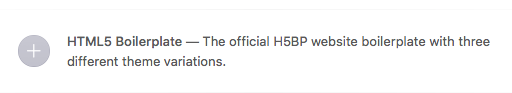
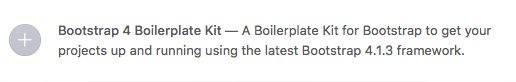
Completed documentation for the README.

Changed region(s): [[0.0, 0.2927, 0.9688, 0.7317], [0.3438, 0.5366, 0.375, 0.561]]

diff --git a/README.md b/README.md
@@ -1,19 +1,21 @@
-# HTML5 Boilerplate Template for Espresso
+# Bootstrap 4 Boilerplate Kit for Espresso
 
-The un-official H5BP website boilerplate template for Espresso (espressoapp.com)
-, the macOS Editor App.
-
-**_[Espresso][espressoapp] are the original authors of this template, I have
-simply taken what they have provided in the application already and upgraded it
-to use all of the latest projects. I found the bundled version was too outdated
-and needed upgrading/maintaining._**
+A Boilerplate Template Kit for [Espresso][espressoapp] that speeds up your
+project development by providing templates, code, CSS and scripts using the
+[Bootstrap 4.1.3][bootstrap] framework.
 
 ###### Table of Contents
 
 - [What is Included](#what-is-included)
-    - [Vendor Scripts](#vendor-scripts)
-    - [Theme Templates](#theme-templates)
-    - [Theme Options](#theme-options)
+  - [Bootstrap 4.1.3](#bootstrap-413)
+  - [Vendor Scripts](#vendor-scripts)
+  - [Theme Templates](#theme-templates)
+    - [Framework](#framework)
+    - [Custom Components](#custom-components)
+    - [Navbars](#navbars)
+    - [Experiments](#experiments)
+  - [Theme Options](#theme-options)
+  - [Extras](#extras)
 - [Getting Started](#getting-started)
   - [Prerequisites](#prerequisites)
   - [Installing](#installing)
@@ -29,31 +31,72 @@ and needed upgrading/maintaining._**
 
 ## What is Included
 
-The following come included in this template for `Espresso`.
+This Boilerplate Kit's primary objective is to accelerate your development
+process by providing you with all the files and code needed for working with the
+most current release of [Bootstrap][bootstrap] - currently version 4.1.3. Not
+only does this Kit include all the Bootstrap CSS and JS, `jQuery`, `Popper.js`
+and `Holder.js` scripts, but it also includes 20 fully-functional example
+templates that you can fire up and begin using as a base for your project.
+
+Here is what is included in this Boilerplate Kit for `Espresso`.
+
+### Bootstrap 4.1.3
+
+You get the latest, minified CSS and JavaScript files for Bootstrap 4.1.3.
+These are:
+
+- bootstrap.min.css
+- bootstrap.min.css.map
+- bootstrap.min.js
 
 ### Vendor Scripts
 
-The following vendor scripts are included in the template and have all been
-upgraded from their original versions.
+The following vendor scripts are included in the template.
 
-1. [Bootstrap 3.3.7][bootstrap] - from version 3.1.1
-2. [jQuery 3.3.1][jquery] - from version 1.11.0
-3. [Modernizr 3.6.0][modernizr] - from version 2.6.2
-4. [Respond.js 1.4.2][respond] - from version 1.1.0
-5. [html5shiv 3.7.3][html5shiv] - from version 3.6
+1. [Bootstrap 4.1.3][bootstrap]
+1. [jQuery Slim 3.3.1][jquery]
+1. [Popper 3.6.0][popper]
+1. [Holder.js 2.9.4+cabil][holder]
 
 ### Theme Templates
 
-H5BP website boilerplate template for Espresso has also been upgrade from
-version 4.6.0 to version 6.1.0. The template includes the following three
-variations:
+The Bootstrap 4 Boilerplate Kit template for Espresso includes the following 20
+template variations ranging from using parts of the framework to custom
+components and layouts as well as Bootstrap experiments.
 
-1. Blank HTML5 starter template with only jQuery included.
-2. Responsive starter template with jQuery and Respond.js.
-3. Bootstrap Jumbotron template with jQuery and Respond.js.
+Here is an overview (with screenshots) of each of the included templates in the
+Boilerplate Kit.
 
-You have the choice of either `Modernizr` or `html5shiv` as the HTML5 fallback
-with each of the three options above.
+#### Framework
+
+| Screenshot                                        | Template                                                                             | Screenshot                         | Template                                                                            |
+|:--------------------------------------------------|:-------------------------------------------------------------------------------------|:-----------------------------------|:------------------------------------------------------------------------------------|
+| ![Starter](docs/screenshots/starter-template.png) | **Starter:** Nothing but the basics: compiled CSS and JavaScript and navbar.         | ![Grid](docs/screenshots/grid.png) | **Grid:** Multiple examples of grid layouts with all four tiers, nesting, and more. |
+| ![Jumbotron](docs/screenshots/jumbotron.png)      | **Jumbotron:** Build around the jumbotron with a navbar and some basic grid columns. |                                    |                                                                                     |
+
+#### Custom Components
+
+| Screenshot                                                         | Template                                                                                         | Screenshot                                           | Template                                                                                     |
+|:-------------------------------------------------------------------|:-------------------------------------------------------------------------------------------------|:-----------------------------------------------------|:---------------------------------------------------------------------------------------------|
+| ![Album](docs/screenshots/album.png)                               | **Album:** Simple one-page template for photo galleries, portfolios, and more.                   | ![Pricing](docs/screenshots/pricing.png)             | **Pricing:** Example pricing page built with Cards and featuring a custom header and footer. |
+| ![Checkout](docs/screenshots/checkout.png)                         | **Checkout:** Custom checkout form showing our form components and their validation features.    | ![Product](docs/screenshots/product.png)             | **Product:** Lean product-focused marketing page with extensive grid and image work.         |
+| ![Cover](docs/screenshots/cover.png)                               | **Cover:** A one-page template for building simple and beautiful home pages.                     | ![Carousel](docs/screenshots/carousel.png)           | **Carousel:** Customize the navbar and carousel, then add some new components.               |
+| ![Blog](docs/screenshots/blog.png)                                 | **Blog:** Magazine like blog template with header, navigation, featured content.                 | ![Dashboard](docs/screenshots/dashboard.png)         | **Dashboard:** Basic admin dashboard shell with fixed sidebar and navbar.                    |
+| ![Sign-in](docs/screenshots/sign-in.png)                           | **Sign-in:** Custom form layout and design for a simple sign in form.                            | ![Sticky Footer](docs/screenshots/sticky-footer.png) | **Sticky Footer:** Attach a footer to the bottom of the viewport when page content is short. |
+| ![Sticky Footer Navbar](docs/screenshots/sticky-footer-navbar.png) | **Sticky Footer Navbar:** Attach a footer to the bottom of the viewport with a fixed top navbar. |                                                      |                                                                                              |
+
+#### Navbars
+
+| Screenshot                                         | Template                                                                                            | Screenshot                                           | Template                                                                                            |
+|:---------------------------------------------------|:----------------------------------------------------------------------------------------------------|:-----------------------------------------------------|:----------------------------------------------------------------------------------------------------|
+| ![Navbars](docs/screenshots/navbars.png)           | **Navbars:** Demonstration of all responsive and container options for the navbar.                  | ![Navbar Static](docs/screenshots/navbar-static.png) | **Navbar Static:** Single navbar example of a static top navbar along with some additional content. |
+| ![Navbar Fixed](docs/screenshots/navbar-fixed.png) | **Navbar Fixed:** Single navbar example with a fixed top navbar along with some additional content. | ![Navbar Bottom](docs/screenshots/navbar-bottom.png) | **Navbar Bottom:** Single navbar example with a bottom navbar along with some additional content.   |
+
+#### Experiments
+
+| Screenshot                                               | Template                                                                             | Screenshot                                   | Template                                                                  |
+|:---------------------------------------------------------|:-------------------------------------------------------------------------------------|:---------------------------------------------|:--------------------------------------------------------------------------|
+| ![Floating Labels](docs/screenshots/floating-labels.png) | **Floating Labels:** Beautifully simple forms with floating labels over your inputs. | ![Offcanvas](docs/screenshots/offcanvas.png) | **Offcanvas:** Turn your expandable navbar into a sliding offcanvas menu. |
 
 ### Theme Options
 
@@ -62,9 +105,38 @@ create a _New Project_ within `Espresso`.
 
 ![Theme Options](docs/images/theme-options.png)
 
+### Extras
+
+There is an optional Extras section which allows you to include extra
+configuration files that form part of most modern-day web projects.
+
+In the `Theme Options` you will find the following settings for you to choose
+from:
+
+![Theme Options](docs/images/extras.png)
+
+These extras are:
+
+1. **IE Classes:** this includes markup in your HTML document for IE9 that will
+   display a browser upgrade message. When selecting this option a new
+   `browser-upgrade.css` file is included in your `/css/` folder and is linked
+   in your HTML markup. If you don't select this option then no additional
+   markup or CSS is added to your HTML template.
+1. **Server Extras:** includes an `.htaccess`, `robots.txt` and `humans.txt`
+   file in the root of your project folder. You can edit these files and
+   customise them to your needs. This option is selected by default as these
+   files are recommended but if you don't select them then none of these files
+   are added to your project.
+1. **Google Analytics:** by including this, additional Google Analytics code is
+   included in your markup just before the closing `</body>` tag. You have the
+   option of inputting your Site ID at time of creating your template or, if you
+   only create the GA tag later on, you can add the Site ID to the markup later
+   on. If this option is unticked, no additional code is added to your markup.
+
 ## Getting Started
 
-These instructions will get the H5BP template installed on your macOS machine.
+These instructions will get the Bootstrap 4 Boilerplate Kit template installed
+in `Espresso` on your `macOS` machine.
 
 ### Prerequisites
 
@@ -72,26 +144,28 @@ You will need a copy of [Espresso][espressoapp] running on `macOS`.
 
 ### Installing
 
-There are two methods to installing this template and these are documented
-below.
+There are two methods to installing the Boilerplate Template Kit and these are
+documented below.
 
 #### In Espresso
 
-- Download the template by [clicking this link][code].
+- Download the Boilerplate Template Kit by [clicking this link][code].
 - Extract the zip folder.
 - Open up your `Espresso.app` application on your machine.
 - Click `File` -> `New Project`
-   (or <kbd>Shift</kbd>+<kbd>Command</kbd>+<kbd>N</kbd>)
+  (or <kbd>Shift</kbd>+<kbd>Cmd</kbd>+<kbd>N</kbd>)
 - Click `Show Templates Folder`
 
 ![show-templates-folder](docs/images/show-templates-folder.png)
 
-- Copy the extracted folder (called `H5BP.espressotemplate`) to the `Templates`
-  directory that has just opened up.
+- Copy the extracted folder (called `bootstrap4.espressotemplate`) to the
+  `Templates` directory that has just opened up (see below).
 
 ![templates-folder](docs/images/templates-folder.png)
 
-The new template should now be available for you to use in the `Espresso` app:
+The new Boilerplate Template Kit should now be available for you to use in
+the `Espresso` app when you create a _New Project_ (see below for what you
+should be seeing).
 
 ![new template](docs/images/new-template.png)
 
@@ -103,11 +177,12 @@ The new template should now be available for you to use in the `Espresso` app:
 
 ```terminal
 $ cd ~/Library/Application\ Support/Espresso/Templates/
-$ git clone https://github.com/justinhartman/H5BP.espressotemplate.git
+$ git clone https://github.com/justinhartman/bootstrap4.espressotemplate.git
 ```
 
 You can now open up `Espresso.app` and the template will be available to you
-when you click on `New Project`.
+when you click on `File` -> `New Project` or <kbd>Shift</kbd>+<kbd>Cmd</kbd>
++<kbd>N</kbd>.
 
 ![new template](docs/images/new-template.png)
 
@@ -149,13 +224,13 @@ This project is licensed under the `MIT` License. See the
 
 Special thanks go out to the following people and projects.
 
-- [Espresso][espressoapp] - for the included template that this has been
-  upgraded from.
-- [HTML5Boilerplate][h5bp] - for providing the boilerplates in this template.
+- [Bootstrap][bootstrap] - for the libraries and example code that is used in
+  this project. Without them, this project wouldn't even exist.
+- [Espresso][espressoapp] - for their H5BP template that this was adapted from.
+- [humans.txt][humans] - for the `humans.txt` boilerplate file.
+- [H5BP][h5bp] - for providing the `.htaccess` file in the extras component.
 - [@justinhartman/.github][.github] - for the Github project templates.
 
-[//]: # (Make sure to change the URL links for `[tags]`, `[releases]`,)
-[//]: # (`[contribs]` and `[author-1]` below to your specific project.)
 
 [deploy]: #deployment
 [CONTRIBUTING]: CONTRIBUTING.md
@@ -163,16 +238,17 @@ Special thanks go out to the following people and projects.
 [license]: LICENSE
 [changelog]: CHANGELOG.md
 [semver]: http://semver.org
-[tags]: https://github.com/justinhartman/H5BP.espressotemplate/tags
-[releases]: https://github.com/justinhartman/H5BP.espressotemplate/releases
-[contribs]: https://github.com/justinhartman/H5BP.espressotemplate/contributors
+[tags]: https://github.com/justinhartman/bootstrap4.espressotemplate/tags
+[releases]: https://github.com/justinhartman/bootstrap4.espressotemplate/releases
+[contribs]: https://github.com/justinhartman/bootstrap4.espressotemplate/contributors
 [author-1]: https://github.com/justinhartman
 [.github]: https://github.com/justinhartman/.github
+[bootstrap]: https://getbootstrap.com
 [espressoapp]: https://espressoapp.com "Espresso, the Mac Editor."
-[code]: https://github.com/justinhartman/H5BP.espressotemplate/archive/master.zip
-[h5bp]: https://html5boilerplate.com
-[bootstrap]: https://getbootstrap.com/docs/3.3/
+[code]: https://github.com/justinhartman/bootstrap4.espressotemplate/archive/master.zip
+[h5bp]: https://github.com/h5bp/server-configs-apache
+[bootstrap]: https://getbootstrap.com/docs/4.1/
 [jquery]: https://jquery.com
-[modernizr]: https://modernizr.com
-[respond]: https://github.com/scottjehl/Respond
-[html5shiv]: https://github.com/aFarkas/html5shiv
+[popper]: https://popper.js.org
+[holder]: http://holderjs.com
+[humans]: http://humanstxt.org/

diff --git a/CONTRIBUTING.md b/CONTRIBUTING.md
@@ -30,5 +30,5 @@ Thanks for contributing! :heart:
 
 [//]: # (Change the URL's below to your own project information)
 
-[issues]: https://github.com/justinhartman/H5BP.espressotemplate/issues
-[new-issue]: https://github.com/justinhartman/H5BP.espressotemplate/issues/new/choose
+[issues]: https://github.com/justinhartman/bootstrap4.espressotemplate/issues
+[new-issue]: https://github.com/justinhartman/bootstrap4.espressotemplate/issues/new/choose
